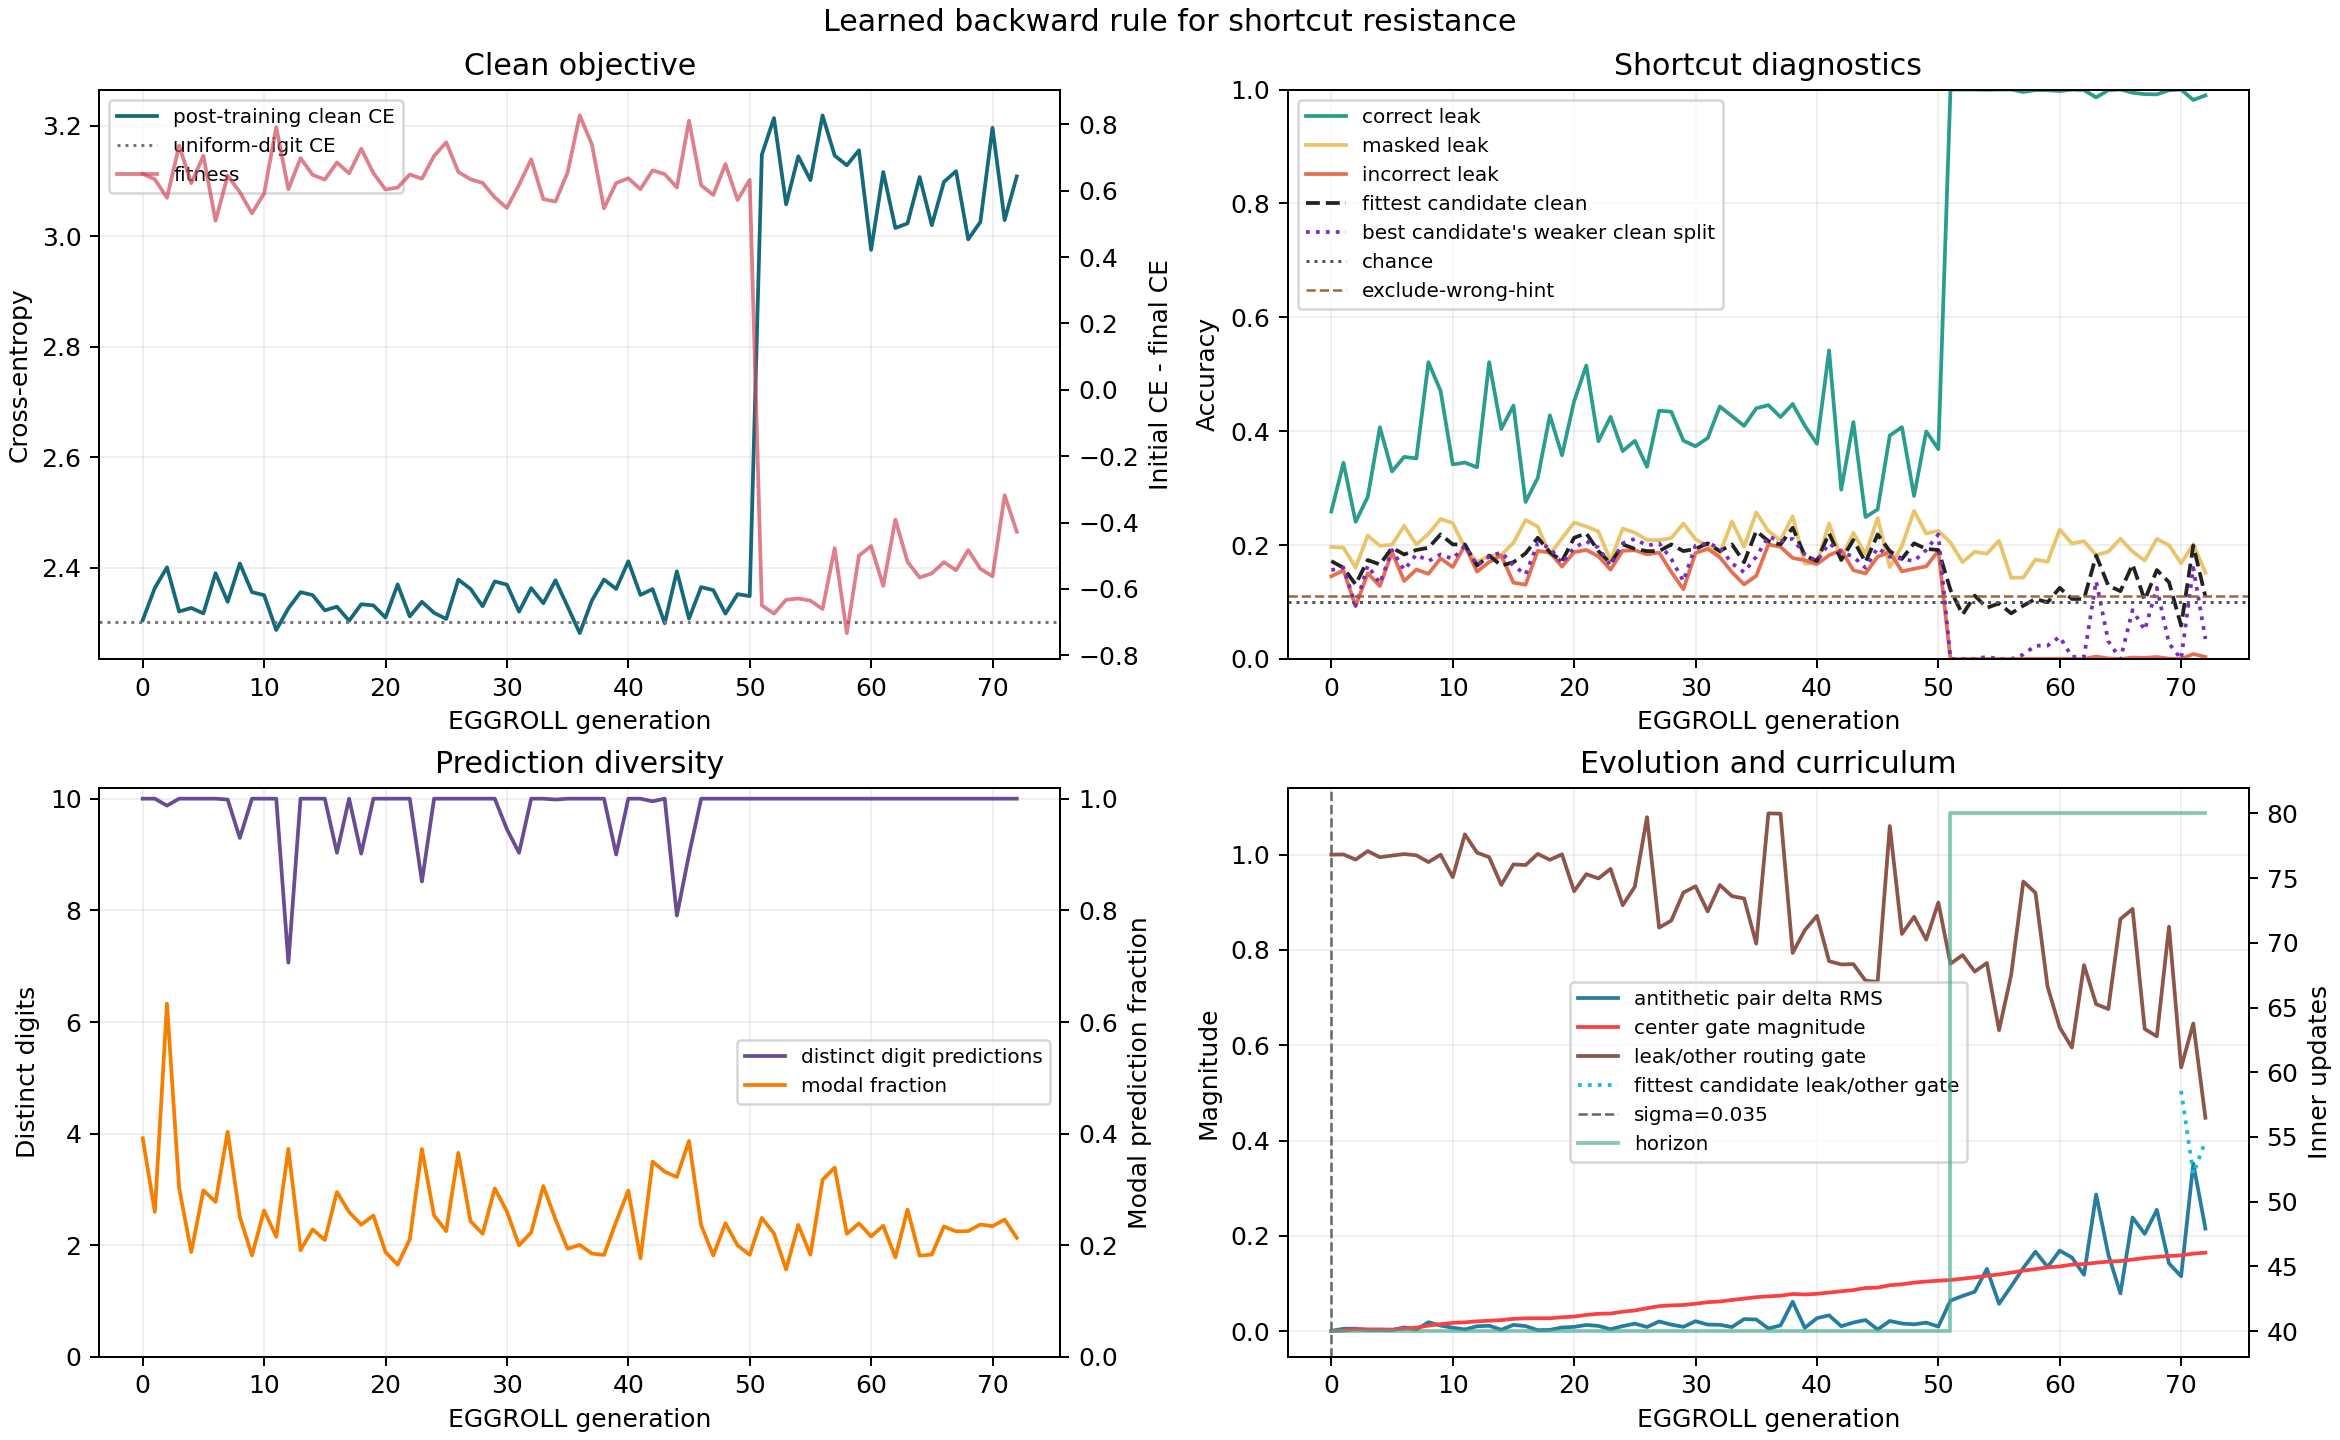
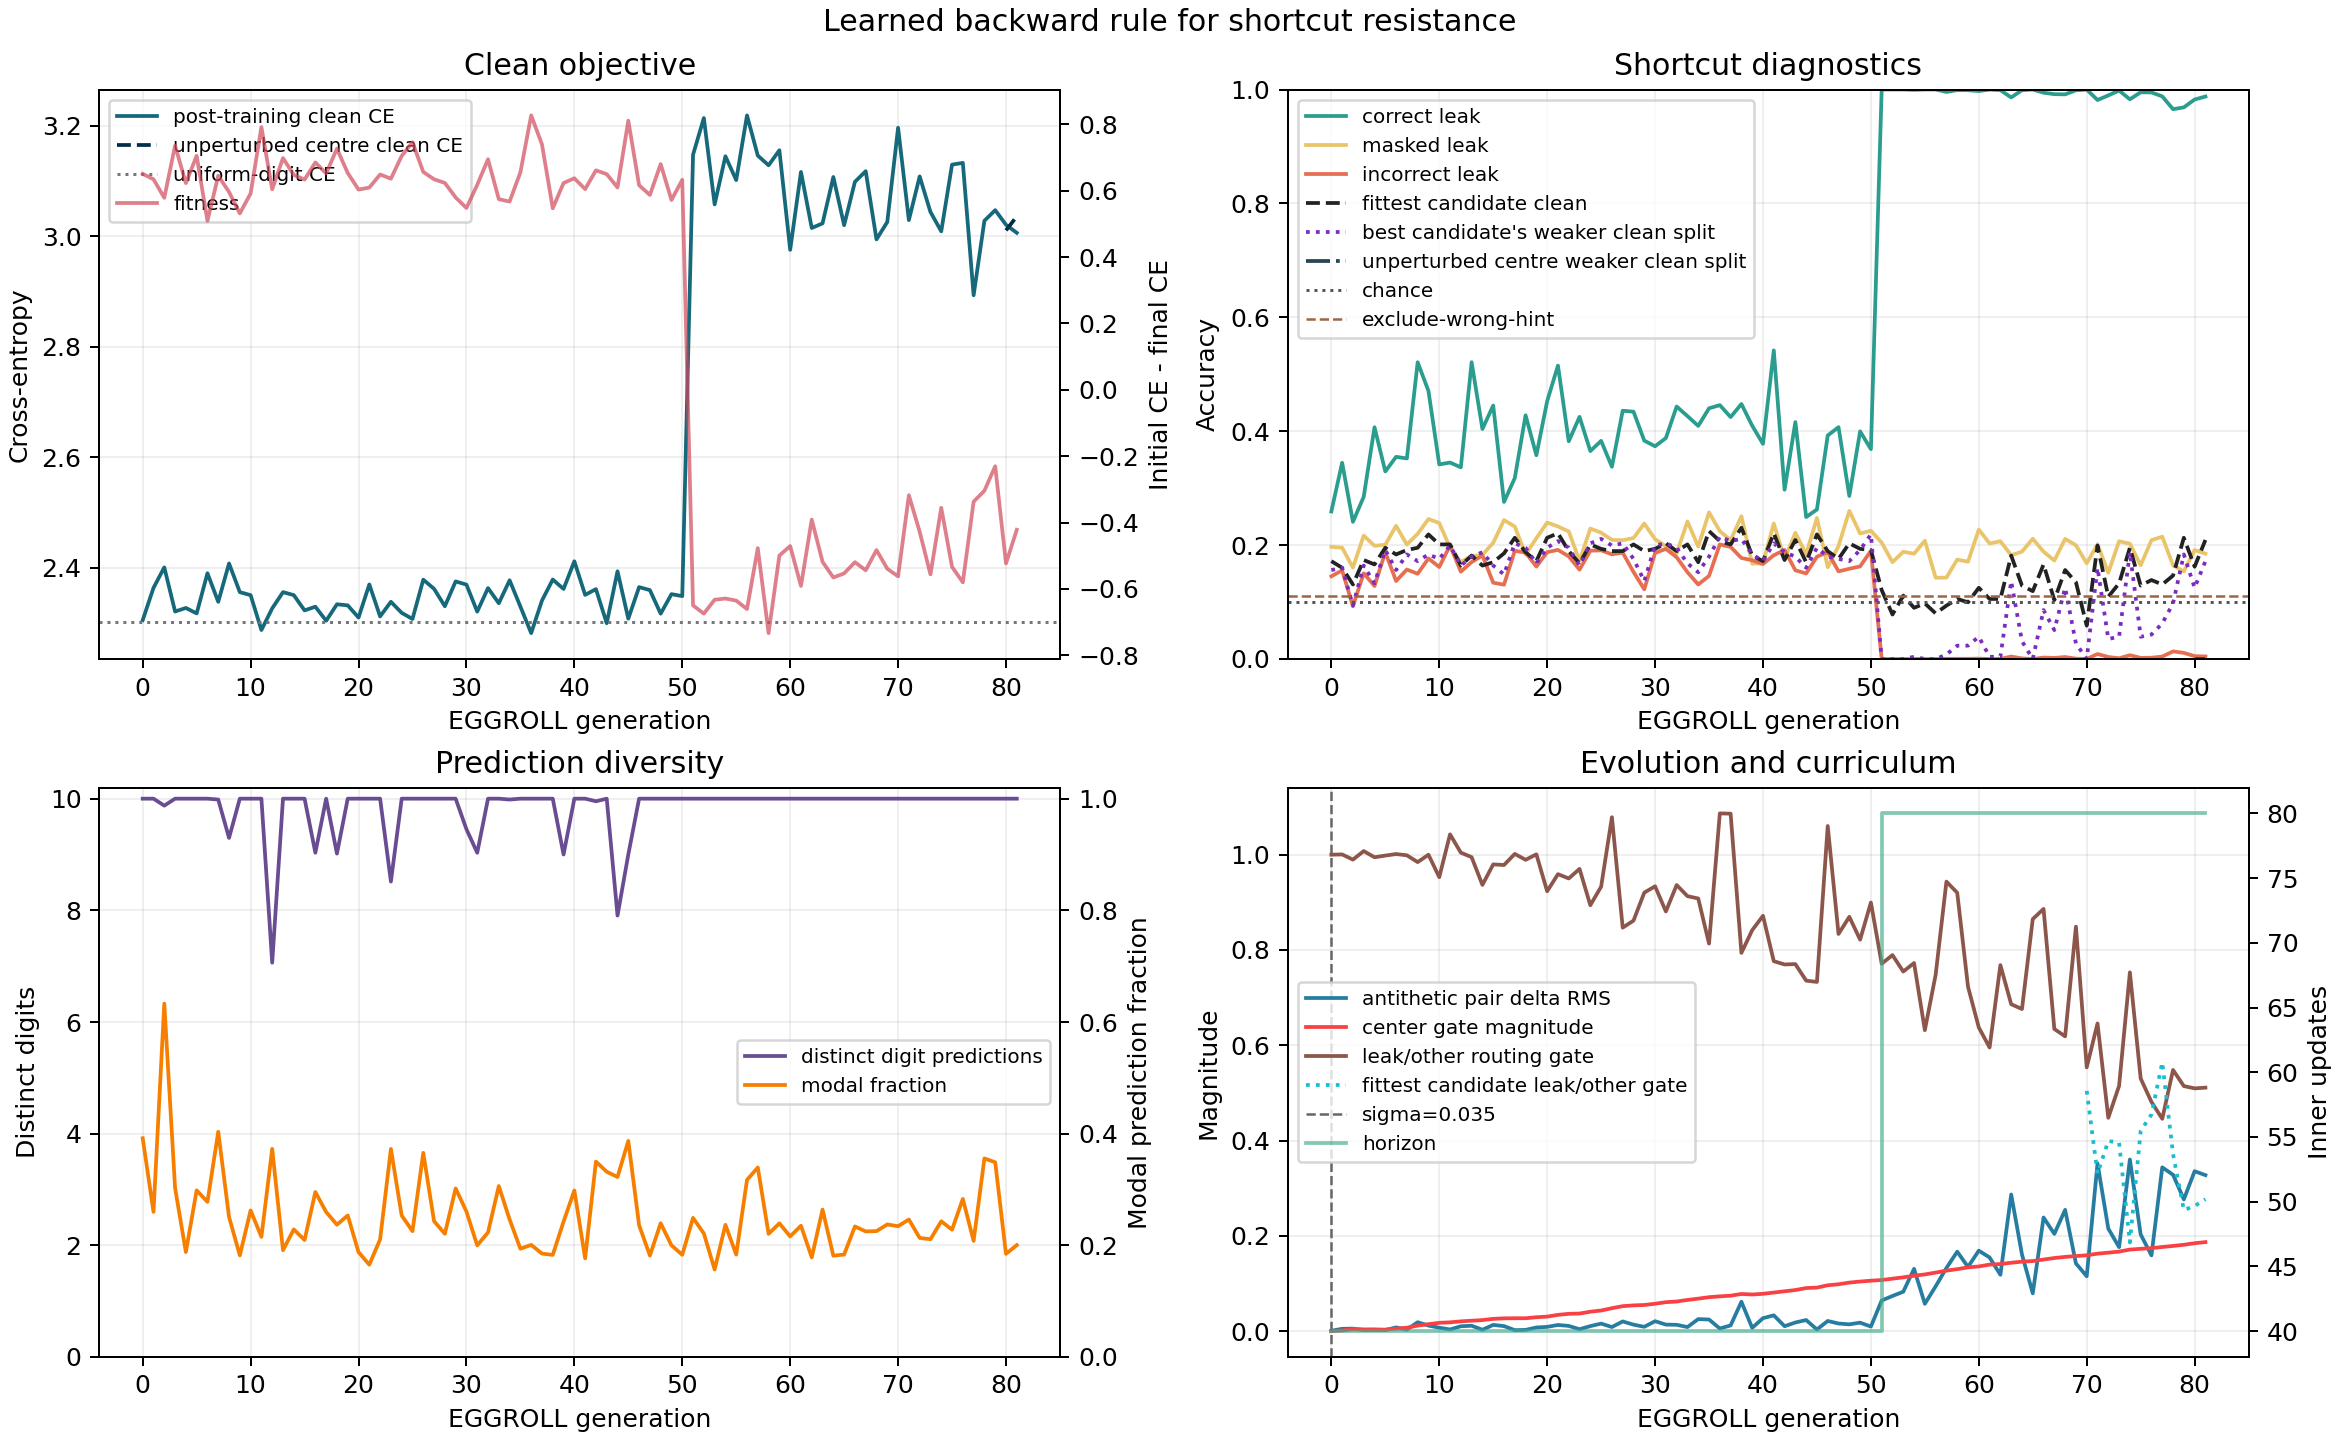
Evaluate the unperturbed backward-rule center

diff --git a/src/list_sorting_transformer/shortcut_credit_experiment.py b/src/list_sorting_transformer/shortcut_credit_experiment.py
@@ -283,6 +283,7 @@ def train_candidate(
     initial_clean_metrics: ShortcutMetrics,
     device: torch.device,
     capture_statistics: bool,
+    perturbation_sigma: float | None = None,
 ) -> tuple[float, ShortcutMetrics, ShortcutMetrics, list[dict[str, float]]]:
     model = initialize_forward_model(
         config,
@@ -299,7 +300,11 @@ def train_candidate(
         backward_rule,
         center_parameters,
         direction,
-        sigma=config.sigma,
+        sigma=(
+            config.sigma
+            if perturbation_sigma is None
+            else perturbation_sigma
+        ),
         sign=sign,
     )
     backward_rule.capture_statistics = capture_statistics
@@ -341,6 +346,31 @@ def candidate_fitness(
         trained_worst = max(trained.mode_loss.values())
         return initial_worst - trained_worst
     raise ValueError(f"unknown fitness objective: {objective}")
+
+
+def center_rule_summary(
+    fitness: float,
+    clean: ShortcutMetrics,
+    correct: ShortcutMetrics,
+) -> dict[str, float]:
+    return {
+        "center_rule/fitness": fitness,
+        "center_rule/clean_loss": clean.loss,
+        "center_rule/clean_accuracy": clean.accuracy,
+        "center_rule/masked_accuracy": clean.mode_accuracy["masked"],
+        "center_rule/incorrect_accuracy": clean.mode_accuracy["incorrect"],
+        "center_rule/min_mode_accuracy": min(
+            clean.mode_accuracy["masked"],
+            clean.mode_accuracy["incorrect"],
+        ),
+        "center_rule/correct_leak_accuracy": correct.accuracy,
+        "center_rule/unique_value_predictions": float(
+            clean.unique_value_prediction_count
+        ),
+        "center_rule/prediction_mode_fraction": (
+            clean.prediction_mode_fraction
+        ),
+    }
 
 
 def parse_candidate_devices(
@@ -968,6 +998,26 @@ def run(config: ShortcutCreditExperimentConfig) -> Path:
             if candidate_index == 0 and statistics:
                 captured_statistics = statistics
 
+        (
+            center_fitness,
+            center_clean,
+            center_correct,
+            _,
+        ) = train_candidate(
+            config,
+            base_state=base_state,
+            center_rule=center_rule,
+            center_parameters=center_parameters,
+            direction=directions[0],
+            sign=1,
+            inner_batches=inner_batches,
+            fitness_batches=fitness_batches,
+            correct_batches=correct_batches,
+            initial_clean_metrics=initial_clean_metrics,
+            device=device,
+            capture_statistics=False,
+            perturbation_sigma=0.0,
+        )
         fitness_tensor = torch.tensor(fitness_values, device=device)
         outer_learning_rate = linear_outer_learning_rate(config, generation)
         standardized = paper_eggroll_update(
@@ -983,6 +1033,13 @@ def run(config: ShortcutCreditExperimentConfig) -> Path:
             fitness_tensor.cpu(),
             clean_results,
             correct_results,
+        )
+        summary.update(
+            center_rule_summary(
+                center_fitness,
+                center_clean,
+                center_correct,
+            )
         )
         if isinstance(center_rule, AttentionRoutingRule):
             summary.update(

diff --git a/tests/test_shortcut_credit.py b/tests/test_shortcut_credit.py
@@ -28,6 +28,7 @@ from list_sorting_transformer.shortcut_credit_experiment import (
     ShortcutCreditExperimentConfig,
     candidate_fitness,
     candidate_summary,
+    center_rule_summary,
     center_routing_summary,
     initialize_fresh_backward_rule,
     load_checkpoint,
@@ -252,6 +253,35 @@ def test_routing_population_summary_links_selectivity_to_fitness() -> None:
     assert abs(
         summary["backward/best_fitness_leak_relative_gate"] - 0.8
     ) < 1e-6
+
+
+def test_center_rule_summary_reports_unperturbed_training_metrics() -> None:
+    clean = ShortcutMetrics(
+        2.0,
+        0.5,
+        {"masked": 0.6, "incorrect": 0.4},
+        {"masked": 1.9, "incorrect": 2.1},
+        8,
+        7,
+        0.2,
+    )
+    correct = ShortcutMetrics(
+        1.2,
+        0.8,
+        {"correct": 0.8},
+        {"correct": 1.2},
+        9,
+        8,
+        0.2,
+    )
+
+    summary = center_rule_summary(0.7, clean, correct)
+
+    assert summary["center_rule/fitness"] == 0.7
+    assert summary["center_rule/masked_accuracy"] == 0.6
+    assert summary["center_rule/incorrect_accuracy"] == 0.4
+    assert summary["center_rule/min_mode_accuracy"] == 0.4
+    assert summary["center_rule/correct_leak_accuracy"] == 0.8
 
 
 def test_worst_mode_fitness_uses_the_weaker_clean_split() -> None:

diff --git a/src/list_sorting_transformer/shortcut_credit_plot.py b/src/list_sorting_transformer/shortcut_credit_plot.py
@@ -80,6 +80,14 @@ def plot_chained_metrics(
         label="post-training clean CE",
         color="#16697a",
     )
+    _plot_series(
+        loss_axis,
+        rows,
+        "center_rule/clean_loss",
+        label="unperturbed centre clean CE",
+        color="#003049",
+        linestyle="--",
+    )
     loss_axis.axhline(
         2.302585,
         color="#777777",
@@ -135,6 +143,14 @@ def plot_chained_metrics(
         label="best candidate's weaker clean split",
         color="#7b2cbf",
         linestyle=":",
+    )
+    _plot_series(
+        accuracy_axis,
+        rows,
+        "center_rule/min_mode_accuracy",
+        label="unperturbed centre weaker clean split",
+        color="#264653",
+        linestyle="-.",
     )
     accuracy_axis.axhline(
         0.1,

diff --git a/experiments/learned_backward_shortcuts/PROGRESS.md b/experiments/learned_backward_shortcuts/PROGRESS.md
@@ -996,3 +996,34 @@ candidate reached `23.83%` masked and `16.02%` wrong-hint accuracy with a
 `0.330` leak ratio and `63.28%` correct-leak accuracy. Population-mean
 wrong-hint accuracy rose to `0.88%`. The centre itself still requires repeated
 updates before these candidate gains can be considered learned.
+
+#### Unperturbed-centre evaluation
+
+The harness previously measured the centre's routing map but only trained
+perturbed candidates. It now also trains one forward model with the exact
+unperturbed centre rule on the same inner batches and evaluates it on the same
+fitness batches. These `center_rule/*` metrics add only one trajectory per
+generation and answer whether EGGROLL has actually accumulated the candidate
+behavior.
+
+The diagnostic-enabled continuation is:
+
+- Run:
+  [`attention-router-shared-h80-center-eval-resume80-seed7`](https://wandb.ai/wobrob101/list-sorting-learned-backward/runs/059lhje5)
+- Source:
+  `attention-router-shared-h80-long-p64-popdiag-resume70-seed7/checkpoint_000080.pt`.
+- The backward parameters, horizon, population, radius, and outer learning-rate
+  schedule are unchanged; only the additional centre evaluation is new.
+
+At generation 80:
+
+| Rule | Masked | Wrong hint | Correct leak | Minimum clean split |
+| --- | ---: | ---: | ---: | ---: |
+| Unperturbed centre | 19.92% | 0.0% | 100% | 0.0% |
+| Fittest candidate | 20.31% | 12.11% | 56.25% | 12.11% |
+| Best robust candidate | 25.39% | 12.50% | 67.19% | 12.50% |
+
+Thus the local population contains useful horizon-80 rules, but the learned
+centre has not yet incorporated them. Sustained centre-rule accuracy, rather
+than isolated candidate accuracy or routing selectivity alone, is now the
+success criterion.
